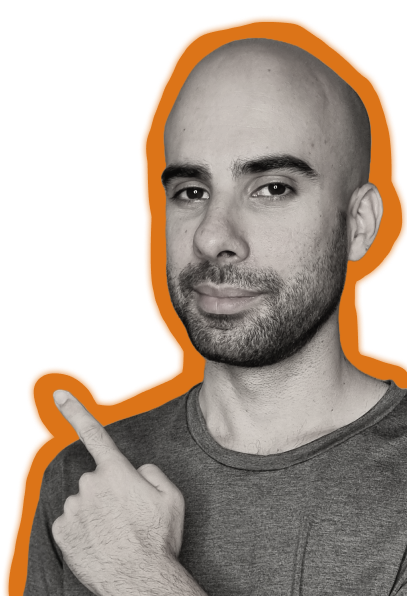
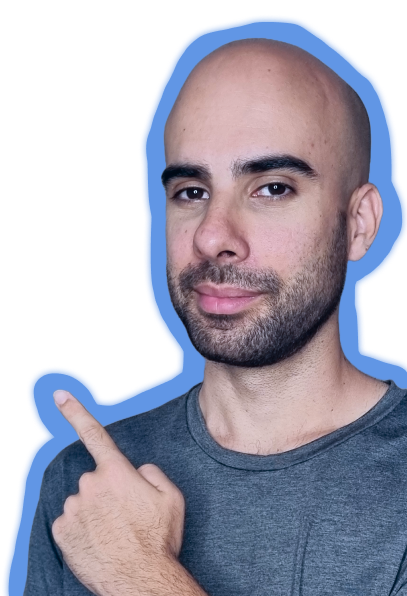
teste

diff --git a/aulas.html b/aulas.html
@@ -45,7 +45,7 @@
         <section class="header-poster-section" style="position: relative;">
             <component-page-title>aulas com zé</component-page-title>
             <div class="aula-small-pic-container">
-                <img src="#" alt="">
+                <img src="images/pictures/aulas-picture-01.png" alt="">
             </div> 
         </section>
     </header>

diff --git a/styles/picture.css b/styles/picture.css
@@ -6,6 +6,11 @@
     bottom: 0;
 }
 
+.aula-small-pic-container img {
+    width: 144px;
+    height: auto;
+}
+
 @media only screen and (min-width: 1200px) {
     .aula-small-pic-container {
         display: none;
